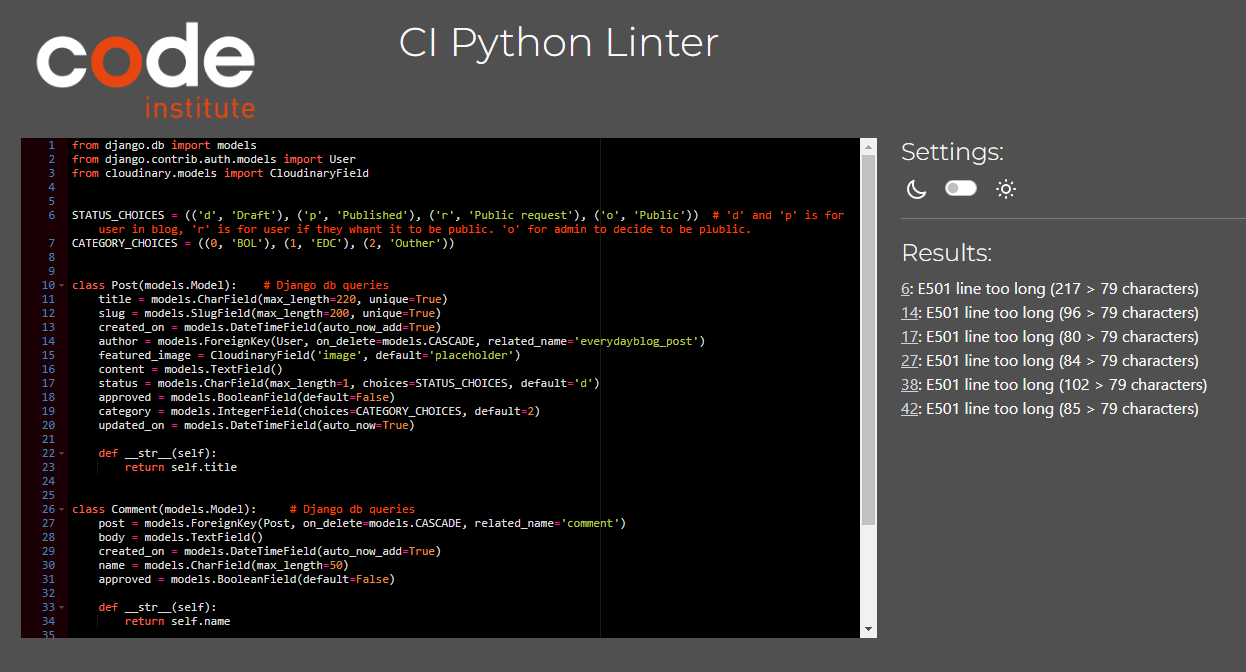
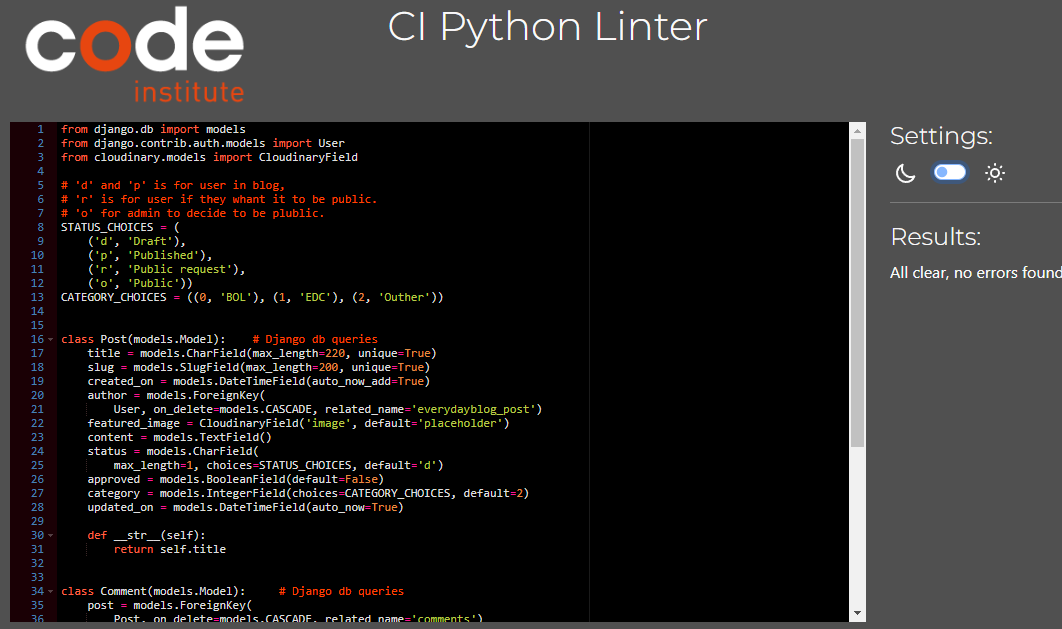
Pip8 remodeling and update Readme.md

Changed region(s): [[0.0, 0.0, 1.0, 0.9968], [0.3107, 0.0, 0.6836, 0.0906]]

diff --git a/tobeaheadblog/settings.py b/tobeaheadblog/settings.py
@@ -17,11 +17,9 @@ if os.path.isfile('env.py'):
     import env
 
 
-
 # Build paths inside the project like this: BASE_DIR / 'subdir'.
 BASE_DIR = Path(__file__).resolve().parent.parent
 TEMPLATES_DIR = os.path.join(BASE_DIR, 'templates')
-
 
 # Quick-start development settings - unsuitable for production
 # See https://docs.djangoproject.com/en/3.2/howto/deployment/checklist/
@@ -32,10 +30,11 @@ SECRET_KEY = os.environ.get('SECRET_KEY')
 # SECURITY WARNING: don't run with debug turned on in production!
 DEBUG = False
 
-# Toggle this one below when deploy and go to Heroku and delete the DISABLE_COLLECTSTATIC = 1 in Vars.
+# Toggle this one below when deploy and go to
+# Heroku and delete the DISABLE_COLLECTSTATIC = 1 in Vars.
 # X_FRAME_OPTIONS = 'SAMEORIGIN'
 
-ALLOWED_HOSTS = ['to-be-ahead-blog.herokuapp.com', 'https://8000-groundbuild-tobeaheadbl-m5vte7hswbd.ws-eu101.gitpod.io/','8000-groundbuild-tobeaheadbl-m5vte7hswbd.ws-eu101.gitpod.io', 'localhost', 'https://groundbuilder-to-be-ahea-3t49okoap2.us2.codeanyapp.com:8000/', 'https://8000-groundbuild-tobeaheadbl-j166cfn61ps.ws-eu104.gitpod.io/', '8000-groundbuild-tobeaheadbl-j166cfn61ps.ws-eu104.gitpod.io']
+ALLOWED_HOSTS = ['to-be-ahead-blog.herokuapp.com', 'https://8000-groundbuild-tobeaheadbl-m5vte7hswbd.ws-eu101.gitpod.io/', '8000-groundbuild-tobeaheadbl-m5vte7hswbd.ws-eu101.gitpod.io', 'localhost', 'https://groundbuilder-to-be-ahea-3t49okoap2.us2.codeanyapp.com:8000/', 'https://8000-groundbuild-tobeaheadbl-j166cfn61ps.ws-eu104.gitpod.io/', '8000-groundbuild-tobeaheadbl-j166cfn61ps.ws-eu104.gitpod.io']
 
 
 # Application definition
@@ -46,7 +45,7 @@ INSTALLED_APPS = [
     'django.contrib.contenttypes',
     'django.contrib.sessions',
     'django.contrib.messages',
-    'users.apps.UsersConfig', # new
+    'users.apps.UsersConfig',  # new
     'cloudinary_storage',
     'django.contrib.staticfiles',
     'cloudinary',
@@ -58,7 +57,6 @@ INSTALLED_APPS = [
     'crispy_forms',
     'crispy_bootstrap5',
     'everydayblog',
-    
 ]
 
 SITE_ID = 1
@@ -70,13 +68,7 @@ CRISPY_ALLOWED_TEMPLATE_PACKS = "bootstrap5"
 CRISPY_TEMPLATE_PACK = "bootstrap5"
 
 MIDDLEWARE = [
-    'django.middleware.security.SecurityMiddleware',
-    'django.contrib.sessions.middleware.SessionMiddleware',
-    'django.middleware.common.CommonMiddleware',
-    'django.middleware.csrf.CsrfViewMiddleware',
-    'django.contrib.auth.middleware.AuthenticationMiddleware',
-    'django.contrib.messages.middleware.MessageMiddleware',
-    'django.middleware.clickjacking.XFrameOptionsMiddleware',
+    'django.middleware.security.SecurityMiddleware', 'django.contrib.sessions.middleware.SessionMiddleware', 'django.middleware.common.CommonMiddleware', 'django.middleware.csrf.CsrfViewMiddleware', 'django.contrib.auth.middleware.AuthenticationMiddleware', 'django.contrib.messages.middleware.MessageMiddleware', 'django.middleware.clickjacking.XFrameOptionsMiddleware',
 ]
 
 ROOT_URLCONF = 'tobeaheadblog.urls'
@@ -99,7 +91,6 @@ TEMPLATES = [
 
 WSGI_APPLICATION = 'tobeaheadblog.wsgi.application'
 
-
 # Database
 # https://docs.djangoproject.com/en/3.2/ref/settings/#databases
 
@@ -119,16 +110,20 @@ DATABASES = {
 
 AUTH_PASSWORD_VALIDATORS = [
     {
-        'NAME': 'django.contrib.auth.password_validation.UserAttributeSimilarityValidator',
+        'NAME':
+            'django.contrib.auth.password_validation.UserAttributeSimilarityValidator',
     },
     {
-        'NAME': 'django.contrib.auth.password_validation.MinimumLengthValidator',
+        'NAME':
+            'django.contrib.auth.password_validation.MinimumLengthValidator',
     },
     {
-        'NAME': 'django.contrib.auth.password_validation.CommonPasswordValidator',
+        'NAME':
+            'django.contrib.auth.password_validation.CommonPasswordValidator',
     },
     {
-        'NAME': 'django.contrib.auth.password_validation.NumericPasswordValidator',
+        'NAME':
+            'django.contrib.auth.password_validation.NumericPasswordValidator',
     },
 ]
 
@@ -146,17 +141,17 @@ USE_L10N = True
 
 USE_TZ = True
 
-
 # Static files (CSS, JavaScript, Images)
 # https://docs.djangoproject.com/en/3.2/howto/static-files/
 
 STATIC_URL = '/static/'
 STATICFILES_STORAGE = 'cloudinary_storage.storage.StaticHashedCloudinaryStorage'
 STATICFILES_DIRS = [os.path.join(BASE_DIR, 'static')]
-STATOC_ROOT = os.path.join(BASE_DIR, 'staticfiles') # Not for use now.
+STATOC_ROOT = os.path.join(BASE_DIR, 'staticfiles')  # Not for use now.
 
 MEDIA_URL = '/media/'
-MEDIA_ROOT = os.path.join(BASE_DIR, 'media') # Directory where uploaded media is saved.
+# Directory where uploaded media is saved.
+MEDIA_ROOT = os.path.join(BASE_DIR, 'media')
 DEFAULT_FILE_STORAGE = 'cloudinary_storage.storage.MediaCloudinaryStorage'
 
 # Default primary key field type

diff --git a/everydayblog/admin.py b/everydayblog/admin.py
@@ -7,15 +7,14 @@ from django_summernote.admin import SummernoteModelAdmin
 class PostAdmin(SummernoteModelAdmin):
     summernote_fields = ('content')
     prepopulated_fields = {'slug': ('title',)}
-    list_display = ('title', 'category', 'slug', 'status', 'created_on', 'approved')
+    list_display = (
+        'title', 'category', 'slug', 'status', 'created_on', 'approved')
     search_fields = ['title', 'content']
     list_filter = ('status', 'created_on')
     actions = ['approve_blog_public']
 
     def approve_blog_public(self, request, queryset):
         queryset.update(approved=True)
-
-
 
 
 @admin.register(Comment)

diff --git a/everydayblog/models.py b/everydayblog/models.py
@@ -51,3 +51,4 @@ class Profile(models.Model):
     def __str__(self):
         # show how we want it to be displayed
         return f'{self.user.username} Profile'
+        

diff --git a/TESTING.md b/TESTING.md
@@ -17,8 +17,12 @@ It's not a fully html-page.
 ![Lighthouse](docs/readme_images/ligthhouse.png)<br>
 
 ## PEP8 CI Python Linter - Validator
-I tested my Python code and there are no errors. There were E501, cause it's comments on the code in the same line. https://pep8ci.herokuapp.com/
+I tested my Python code and there are no errors. There were E501, cause it's code is to long. https://pep8ci.herokuapp.com/
 
 ![manage.py](docs/readme_images/managepy.png)<br>
 
 ![models.py](docs/readme_images/modelspy.png)<br>
+
+![admin.py](docs/readme_images/adminpy.png)<br>
+
+![settings.py](docs/readme_images/settingspy.png)<br>

diff --git a/README.md b/README.md
@@ -209,6 +209,7 @@ to copy the URL
 ### Content
 
 * Ideas for content came from the book "Alltid Före"
+* Images for the blog have been generated by AI with decribing words from (https://www.bing.com/images/create?FORM=IRPGEN)
 
 
 ### Information Sources / Resources
